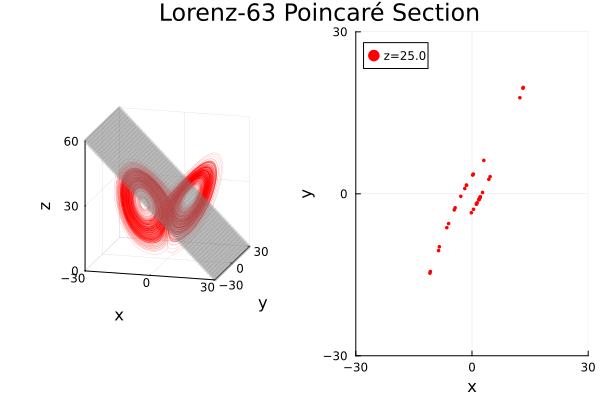
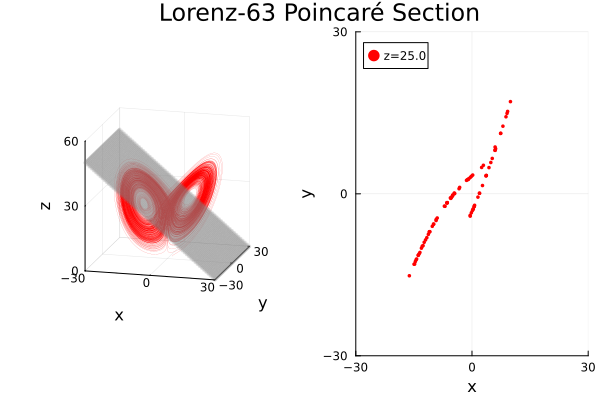
complete exercise 1.9

diff --git a/README.md b/README.md
@@ -1,6 +1,11 @@
 # Nonlinear Dynamics
 [A Concise Introduction Interlaced with Code](https://link.springer.com/book/10.1007/978-3-030-91032-7)
 
+## Exercise 1.9
+[Code](https://github.com/ianwineman/nonlinear-dynamics/blob/main/exercises/exercise1_9.jl)
+
+![Exercise 1.9](plots/exercise1_9.png)
+
 ## Exercise 1.8
 [Code](https://github.com/ianwineman/nonlinear-dynamics/blob/main/exercises/exercise1_8.jl)
 
